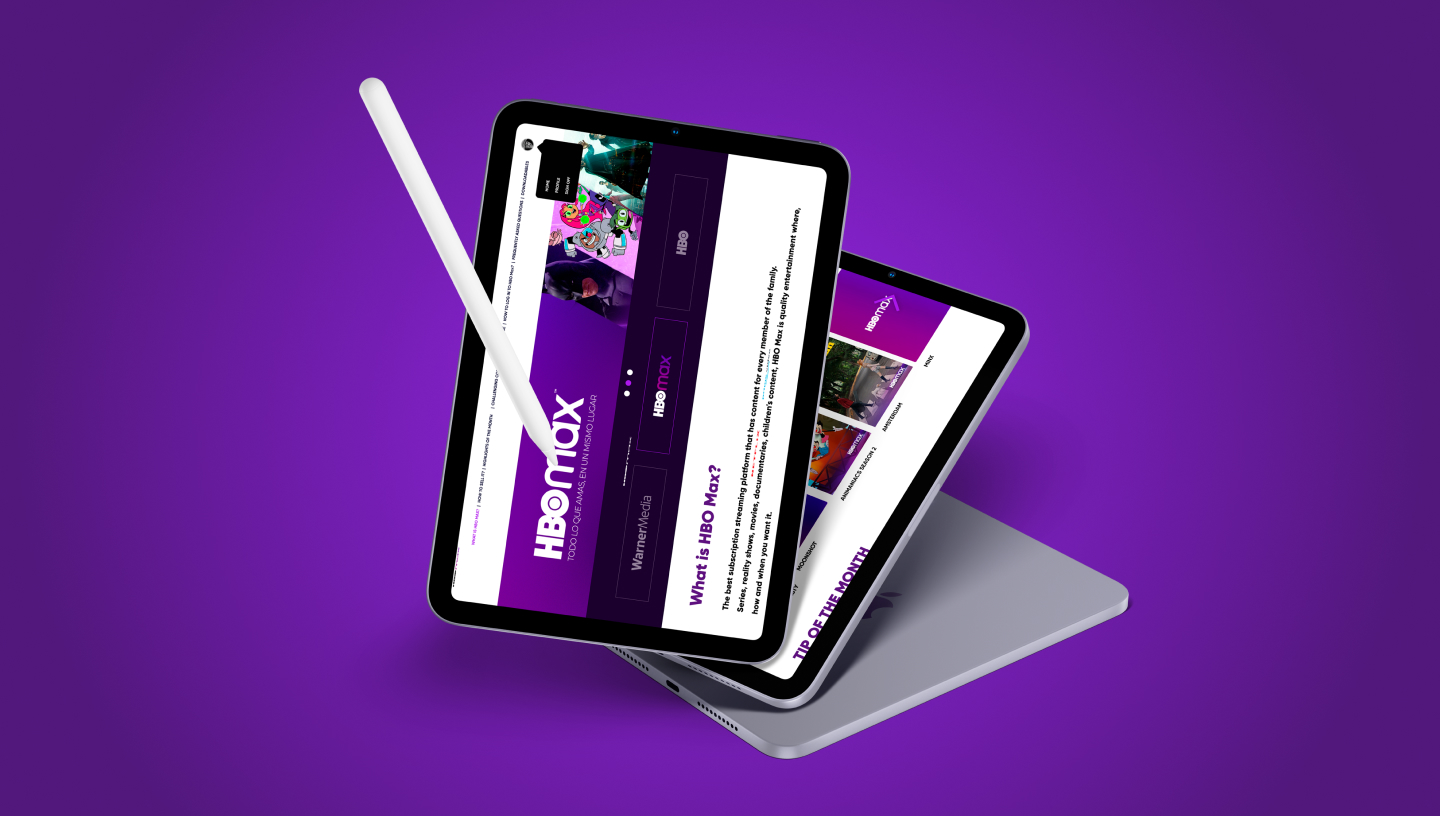
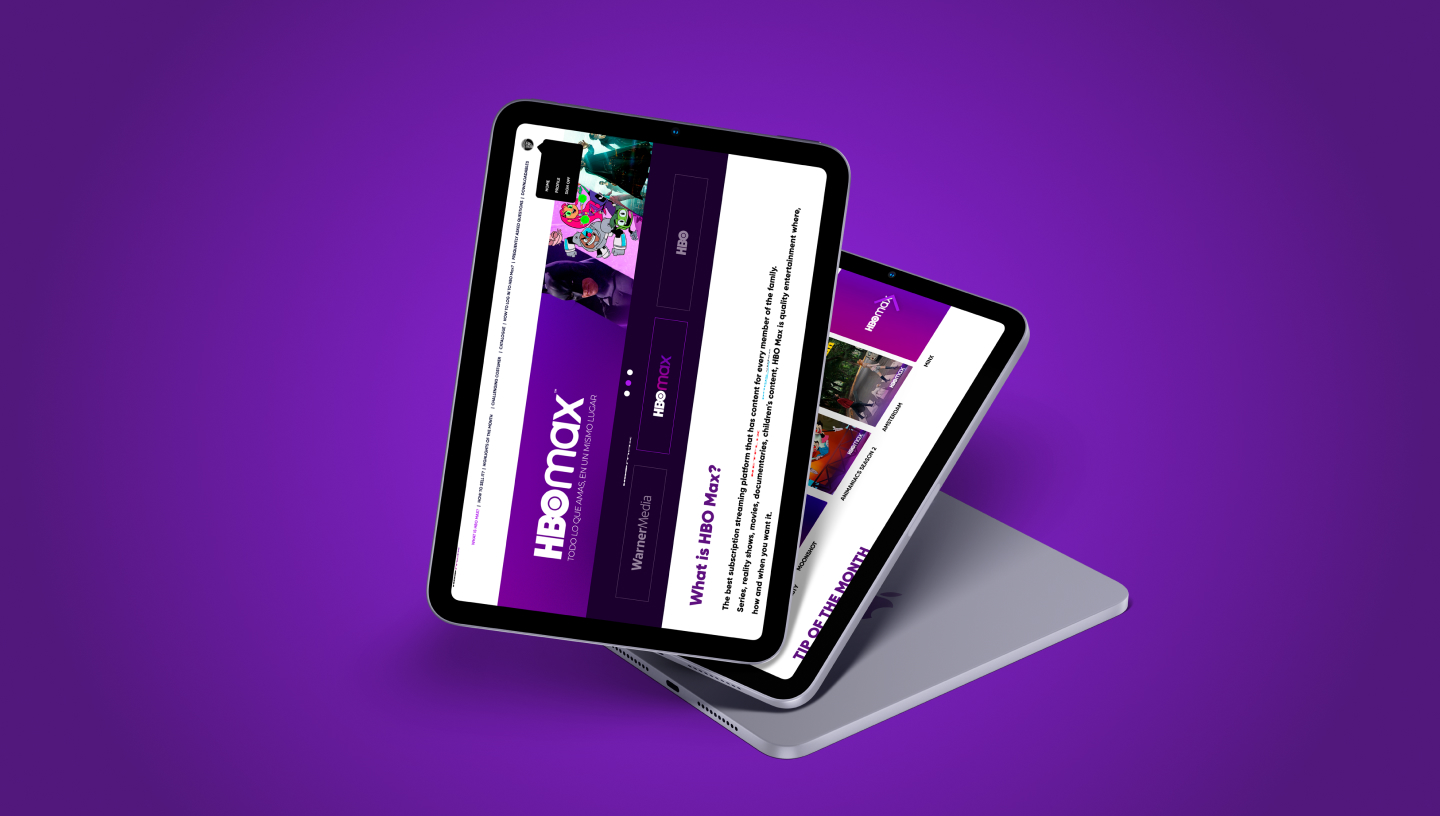
menu settings

Changed region(s): [[0.25, 0.0919, 0.3438, 0.4289], [0.3438, 0.4289, 0.4062, 0.5821]]

diff --git a/src/pages/index.tsx b/src/pages/index.tsx
@@ -9,43 +9,86 @@ import SliderSection from '@/components/organisms/sliderSection/sliderSection';
 import BrandsSeccion from '@/components/organisms/brandsSeccion/brandsSeccion';
 import ContactSeccion from '@/components/organisms/contactSeccion/contactSeccion';
 import ApproachSeccion from '@/components/organisms/approachSeccion/approachSeccion';
+import gsap from 'gsap';
+import { ScrollTrigger } from 'gsap/ScrollTrigger';
 
 import '../styles/home.scss'
+import { useEffect, useRef, useState } from 'react';
+import Footer from '@/components/organisms/footer/footer';
+import Header from '@/components/organisms/header/header';
 
 export default function Home() {
+
+  const [menu, setMenu] = useState('white')
+  // gsap.registerPlugin(ScrollTrigger);
+  const main = useRef<any>(null)
+
+  useEffect(() => {
+    // gsap.set('.mainWrapper', { height: window.innerHeight, })
+
+    // let sections = gsap.utils.toArray(".child");
+
+    // gsap.to(sections, {
+    //   yPercent: -90 * (sections.length - 1),
+    //   ease: "none",
+    //   scrollTrigger: {
+    //     trigger: ".mainWrapper",
+    //     pin: true,
+    //     pinSpacing: true,
+    //     scrub: 1,
+    //     markers: true,
+    //     snap: {
+    //       snapTo: 1 / (sections.length - 1),
+    //       duration: 1,
+    //       delay: 0.1,
+    //       ease: "power1.inOut"
+    //     },
+    //     // base vertical scrolling on how wide the container is so it feels more natural.
+    //     end: window.innerHeight
+    //   }
+    // });
+
+
+  }, [])
+
+
+
   return (
-    <DefaultLayout>
-      <main className='mainWrapper'>
-        <div className='child'>
-          <HeroSeccion />
-        </div>
-        <div className='child'>
-          <VideoSeccion />
-        </div>
-        <div className='child'>
-          <HomeCardsSeccion />
-        </div>
+    <>
+      <Header color={menu} />
+      <div onMouseEnter={() => setMenu('white')} className='child'>
+        <HeroSeccion />
+      </div>
+      <div onMouseEnter={() => setMenu('black')} className='child'>
+        <VideoSeccion />
+      </div>
+      <div onMouseEnter={() => setMenu('white')} className='child'>
+        <HomeCardsSeccion />
+      </div>
 
-        <div className='child'>
-          <HomeBioSeccion />
-        </div>
+      <div onMouseEnter={() => setMenu('black')} className='child'>
+        <HomeBioSeccion />
+      </div>
 
-        <div className='child'>
-          <SliderSection />
-        </div>
+      <div onMouseEnter={() => setMenu('black')} className='child'>
+        <SliderSection />
+      </div>
 
-        <div className='child'>
-          <ApproachSeccion />
-        </div>
+      <div onMouseEnter={() => setMenu('white')} className='child'>
+        <ApproachSeccion />
+      </div>
 
-        <div className='child'>
-          <BrandsSeccion />
-        </div>
+      <div onMouseEnter={() => setMenu('black')} className='child'>
+        <BrandsSeccion />
+      </div>
 
-        <div className='child'>
-          <ContactSeccion />
-        </div>
-      </main>
-    </DefaultLayout>
+      <div onMouseEnter={() => setMenu('white')} className='child'>
+        <ContactSeccion />
+      </div>
+
+      <div className='child'>
+        <Footer />
+      </div>
+    </>
   );
 }

diff --git a/src/components/organisms/header/header.tsx b/src/components/organisms/header/header.tsx
@@ -1,11 +1,29 @@
 import Icon from '@/components/atoms/icon/icon'
-import React from 'react'
+import React, { useEffect, useRef, useState } from 'react'
 import './header.scss'
+import gsap from 'gsap';
+import { ScrollTrigger } from 'gsap/ScrollTrigger';
 
-export default function Header() {
+interface headerProps {
+  color: string
+}
+
+export default function Header({ color }: headerProps) {
+  gsap.registerPlugin(ScrollTrigger);
+
   return (
     <div className='headerContainer'>
-      <Icon type='menu' />
+      {
+        color === 'white' ?
+          <div className='menuAnim'>
+            <Icon type='menu' />
+          </div>
+          : color === 'black' ?
+            <div className='menuAnim2'>
+              <Icon type='menu2' />
+            </div>
+            : <></>
+      }
     </div>
   )
 }

diff --git a/src/components/atoms/icon/icon.tsx b/src/components/atoms/icon/icon.tsx
@@ -1,5 +1,6 @@
 import Logo from '../../../assets/icons/Logo.svg'
 import Menu from '../../../assets/icons/menuIcon.svg'
+import Menu2 from '../../../assets/icons/MenuBlack.svg'
 import Card1 from '../../../assets/icons/cardIcon1.svg'
 import Card2 from '../../../assets/icons/cardIcon2.svg'
 import Card3 from '../../../assets/icons/cardIcon3.svg'
@@ -18,6 +19,7 @@ const Icon = ({ type }: iconProps) => {
     <>
       {type === 'logo' && <Logo />}
       {type === 'menu' && <Menu />}
+      {type === 'menu2' && <Menu2 />}
       {type === 'card1' && <Card1 />}
       {type === 'card2' && <Card2 />}
       {type === 'card3' && <Card3 />}

diff --git a/src/styles/globalStyle.scss b/src/styles/globalStyle.scss
@@ -4,8 +4,21 @@ $secondary-font: Satoshi-Light;
 $bold-font: Satoshi-Bold;
 
 html, body {
-  height: 100%;
-  scroll-snap-type: y mandatory;
+  box-sizing: border-box;
+  height: 100vh;
+  padding: 0;
+  margin: 0;
+  max-width: 100%;
+  margin: auto;
+  scroll-snap-type: mandatory !important;
+  scroll-snap-points-y: repeat(150vh) !important;
+  scroll-snap-type: y mandatory !important;
+  scroll-behavior: smooth;
+  scroll-snap-align: start;
+}
+
+.child {
+  scroll-snap-align: start end;
 }
 
 

diff --git a/src/components/organisms/header/header.scss b/src/components/organisms/header/header.scss
@@ -6,4 +6,28 @@
   justify-content: flex-end;
   padding: 0 90px;
   z-index: 1000;
+  .menuAnim {
+    animation: menuAnim 2s;
+  }
+  .menuAnim2 {
+    animation: menuAnim2 2s;
+  }
+}
+
+
+@keyframes menuAnim {
+  0% {
+    opacity: 0;
+  }
+  100% {
+    opacity: 1;
+  }
+}
+@keyframes menuAnim2 {
+  0% {
+    opacity: 0;
+  }
+  100% {
+    opacity: 1;
+  }
 }

diff --git a/src/components/templates/defaultLayout/defaultLayout.tsx b/src/components/templates/defaultLayout/defaultLayout.tsx
@@ -2,6 +2,8 @@ import Footer from '@/components/organisms/footer/footer'
 import Header from '@/components/organisms/header/header'
 import React from 'react'
 
+import './defaultLayout.scss'
+
 interface defaultLayoutProps {
   children: object
 }

diff --git a/src/components/organisms/footer/footer.scss b/src/components/organisms/footer/footer.scss
@@ -2,7 +2,6 @@
   height: 90vh;
   background-color: #FFF100;
   display: flex;
-  scroll-snap-align: start;
   .seccion1 {
     width: 50%;
     display: flex;

diff --git a/src/styles/home.scss b/src/styles/home.scss
@@ -1,6 +1,5 @@
 .mainWrapper {
-  height: 100%;
-  .child {
+  &.child {
     scroll-snap-align: start;
   }
 }

diff --git a/src/components/templates/defaultLayout/defaultLayout.scss b/src/components/templates/defaultLayout/defaultLayout.scss
@@ -1,0 +1,3 @@
+main {
+  scroll-snap-type: y proximity;
+}
